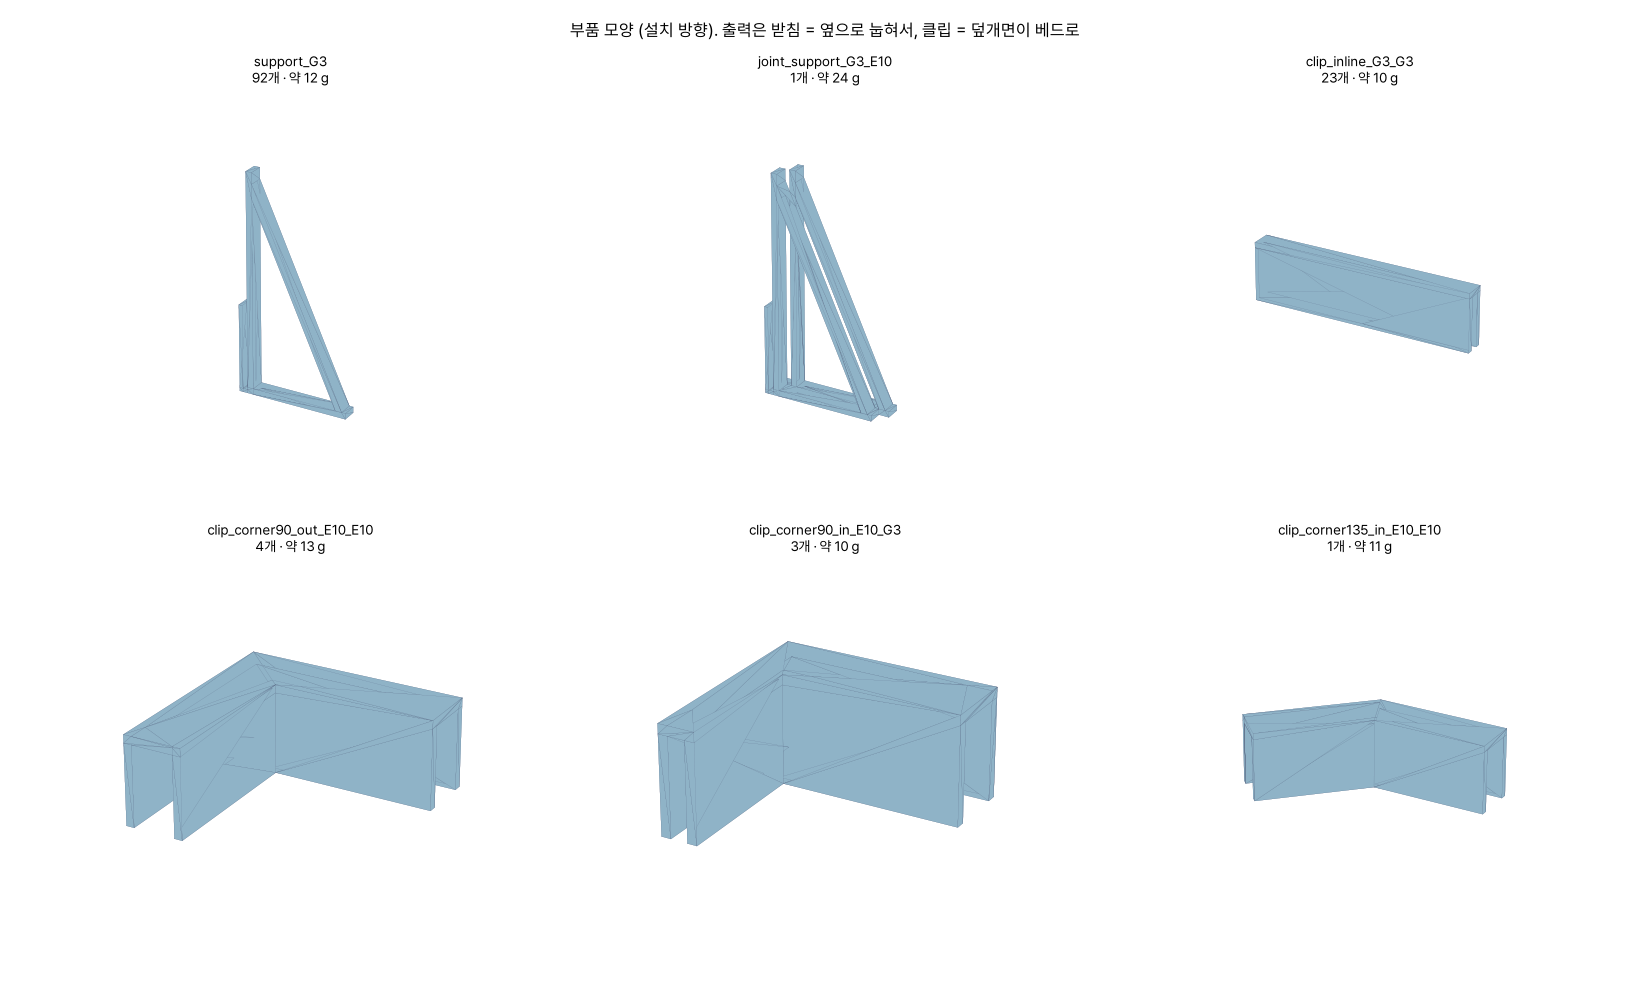
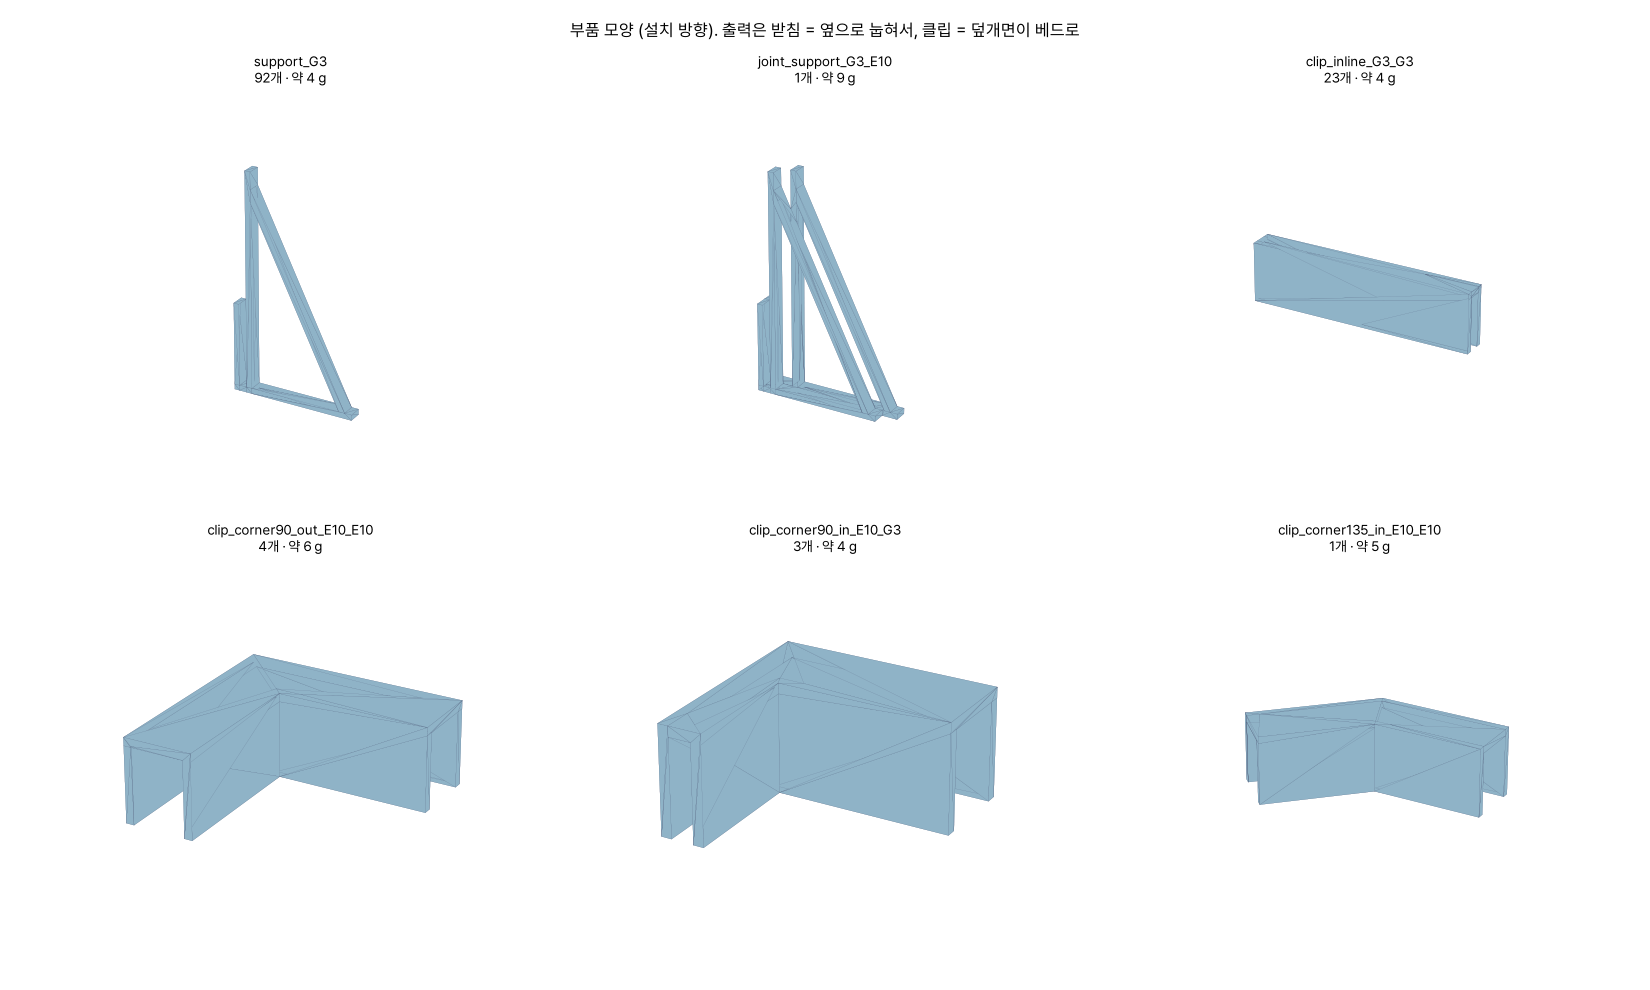
벽 받침 경량화 — 출력 약 95시간 → 41시간, PLA 4.0 → 1.3 kg
- 받침: 높이 150 → 100, 바닥 70 → 50, 두께 10 → 6, 부재 4 → 2.5 mm(선 6줄, 채움 없음).
  Bambu Studio 슬라이스 기준 1개 21분 → 8분, 12.0 → 4.2 g. 빗대 좌굴 약 26 N.
- ㄷ자 클립: 살 2 → 1.6, 다리 20 → 15, 팔 40 → 30 mm. 15분 → 9분.
- 배치·수량은 그대로(받침 164 · 이음 받침 36 · 클립 61), 검사 전부 통과.
- README에 부품별 슬라이스 시간표와 더 줄이는 선택지(간격 800 mm, 코너 클립 → 청테이프) 기록.
- 단면도가 받침 가운데 빈 곳을 꽉 찬 것처럼 그리던 것 수정.

diff --git a/parts/wall_support/make_wall_parts.py b/parts/wall_support/make_wall_parts.py
@@ -23,20 +23,20 @@ STL = os.path.join(HERE, "stl")
 # ---- 치수 (mm). 첫 출력 후 실측해서 여기만 고치면 된다 ------------------------------------------
 T = {"G": 3.0, "E": 10.0}       # 판 두께: 회색 포맥스 3T, EVA 10T
 CLR = {"G": 0.5, "E": 0.5}      # 홈 여유 (EVA는 눌리므로 빡빡해도 됨)
-H = 150.0        # 받침 높이 (벽 400 mm의 아래 37 %)
-D = 70.0         # 받침 바닥 길이 (벽 뒷면부터)
-WID = 10.0       # 받침 두께(벽 따라). 이음 받침은 판마다 WID씩 = 20
-PLATE = 4.0      # 뒤판·바닥판·빗대 두께
-LIP_T, LIP_H = 2.4, 60.0   # 도로 쪽 턱 (잔디 가장자리가 여기에 닿음)
+H = 100.0        # 받침 높이 (11-07: 150 → 100, 출력 21분 → 8분)
+D = 50.0         # 받침 바닥 길이 (벽 뒷면부터)
+WID = 6.0        # 받침 두께(벽 따라). 이음 받침은 판마다 WID씩 = 12
+PLATE = 2.5      # 뒤판·바닥판·빗대 두께 = 0.42 mm 선 6줄 (채움 없이 벽 선만으로 꽉 참)
+LIP_T, LIP_H = 2.4, 40.0   # 도로 쪽 턱 (잔디 가장자리가 여기에 닿음)
 BR = 2.4         # 벽이 올라앉는 바닥 다리 두께
-CL_ARM = 40.0    # 클립 팔 길이 (이음·코너에서 각 판 쪽으로)
-CL_LEG = 20.0    # 클립 다리 깊이 (판 윗변에서 아래로)
-CL_WALL = 2.0    # 클립 살 두께
+CL_ARM = 30.0    # 클립 팔 길이 (이음·코너에서 각 판 쪽으로)
+CL_LEG = 15.0    # 클립 다리 깊이 (판 윗변에서 아래로)
+CL_WALL = 1.6    # 클립 살 두께 (선 4줄)
 SPACING = 600.0  # 받침 최대 간격 (PDF 18쪽 '우선 600 mm 이하')
 CORNER_OFF = 120.0   # 코너에서 첫 받침까지
 MIN_PANEL = 300.0    # 이보다 짧은 판은 양 끝 이음 받침만
 PLA_DENSITY = 1.24
-FILL = {"support": 0.6, "joint": 0.6, "clip": 1.0}   # 슬라이서 기본(벽 2·채움 15 %)에서 유효 충전율 추정: 4 mm 부재 ≈ 0.6, 2 mm 살 = 거의 꽉
+FILL = {"support": 0.8, "joint": 0.8, "clip": 0.95}  # Bambu Studio 0.20 Standard 슬라이스 실측 필라멘트량 ÷ STL 부피 (11-07)
 
 
 # ---- 벽·도로 ---------------------------------------------------------------------------------------
@@ -346,7 +346,7 @@ fig.tight_layout(); fig.savefig(os.path.join(HERE, "wall_supports.png"), dpi=130
 fig, axs = plt.subplots(1, 3, figsize=(13, 5.2))
 for ax, mat in zip(axs[:2], ("G", "E")):
     pr = support_profile(mat)
-    ax.fill(*pr.exterior.xy, color="#8aa", ec="k")
+    fill(ax, pr, color="#8aa", ec="k", lw=0.8)
     s = T[mat]
     ax.add_patch(plt.Rectangle((0, BR), s, 400 - BR, color="#bbb" if mat == "G" else "#f0b070", alpha=0.6))
     ax.add_patch(plt.Rectangle((-200, 0), 200 - LIP_T, 6, color="#7cc576"))
@@ -363,7 +363,7 @@ o, v = clip_kinds[next(k for k in clip_kinds if clip_kinds[k]["name"].startswith
 ax.fill(*o.exterior.xy, color="#8aa", ec="k")
 for g in getattr(v, "geoms", [v]):
     ax.fill(*g.exterior.xy, color="white", ec="#555", ls="--")
-ax.set_aspect("equal"); ax.set_title(f"ㄷ자 클립 (위에서 본 모양, 일자 회색-회색)\n점선 = 판이 들어가는 홈 · 덮개 {CL_WALL:.0f} mm + 다리 {CL_LEG:.0f} mm", fontsize=9)
+ax.set_aspect("equal"); ax.set_title(f"ㄷ자 클립 (위에서 본 모양, 일자 회색-회색)\n점선 = 판이 들어가는 홈 · 덮개 {CL_WALL:g} mm + 다리 {CL_LEG:g} mm", fontsize=9)
 fig.tight_layout(); fig.savefig(os.path.join(HERE, "wall_parts_section.png"), dpi=130); plt.close(fig)
 
 from mpl_toolkits.mplot3d.art3d import Poly3DCollection

diff --git a/parts/wall_support/README.md b/parts/wall_support/README.md
@@ -21,10 +21,10 @@
 
 ![단면](wall_parts_section.png)
 
-- **받침**: 높이 150 · 바닥 70 · 두께 10 mm이고, 홈은 회색 3.5 / EVA 10.5 mm입니다.
-  - 도로 쪽에는 2.4 × 60 mm 턱만 있습니다. 잔디 가장자리가 이 턱에 닿습니다.
+- **받침**: 높이 100 · 바닥 50 · 두께 6 mm, 부재 2.5 mm이고, 홈은 회색 3.5 / EVA 10.5 mm입니다.
+  - 도로 쪽에는 2.4 × 40 mm 턱만 있습니다. 잔디 가장자리가 이 턱에 닿습니다.
   - **흰 도로 위에는 아무것도 올라가지 않습니다**(PDF 18쪽).
-- **클립**: 살 2 mm, 다리 20 mm, 팔 40 mm입니다. 코너 클립은 모양이 여럿입니다.
+- **클립**: 살 1.6 mm, 다리 15 mm, 팔 30 mm입니다. 코너 클립은 모양이 여럿입니다.
   - `out`: 받침 쪽이 각의 바깥(외곽 벽 모서리)
   - `in`: 받침 쪽이 각의 안쪽(섬 모서리)
   - `_mirror`: 좌우가 반대인 모양입니다. 섞이지 않게 따로 담으세요.
@@ -51,14 +51,37 @@
 |---|---|
 | 설정 | 0.4 노즐 · 0.20 mm Standard · Bambu PLA Basic(회색) · **서포트 없음** |
 | 방향 | 받침·이음 받침은 **옆으로 눕혀서**(단면이 베드에), 클립은 **덮개면이 베드에**. STL이 이미 그 방향입니다 |
-| 수량·무게 | [`parts_count.csv`](parts_count.csv) — 예비 10 % 포함 **약 4.0 kg** (사 둔 PLA 4 kg와 거의 같음) |
-| 출력 시간 | Bambu Studio 슬라이스 기준 받침 **21분**, 이음 받침 38분, 클립 14분 → 합계 **약 95시간 (P1S 1대)** |
+| 수량 | [`parts_count.csv`](parts_count.csv) |
 
-> ⚠ **출력 시간이 가장 큰 일정 변수입니다.** 대회까지 남은 날로는 P1S 1대로는 빠듯합니다.
-> 프린터를 여러 대 나눠 쓰는 게 가장 확실합니다. 받침 간격을 800 mm로 늘려도 약 81시간이라 효과가 크지 않습니다.
-> 코너·이음 받침이 고정으로 들어가기 때문입니다.
->
-> 받침 1개 무게는 슬라이서 값 12.0 g입니다. 첫 출력물을 달아 보고 `parts_count.csv`와 비교하면 PLA가 남는지 바로 압니다.
+Bambu Studio 슬라이스 값입니다(0.20 Standard, 1개씩).
+
+| 부품 | 1개 | 수량 | 합계 |
+|---|---|---|---|
+| 받침 | 8분 · 4.2 g | 164 | 22.8시간 · 0.69 kg |
+| 이음 받침 | 15분 · 8.0 g | 36 | 8.8시간 · 0.29 kg |
+| ㄷ자 클립 | 9~11분 · 4.4~6.1 g | 61 | 9.9시간 · 0.29 kg |
+| **합계** | | 261 | **약 41시간 · 1.3 kg** (예비 10 % 넣으면 약 46시간) |
+
+### 11-07 개선: 95시간 → 41시간
+
+처음 설계(높이 150 · 바닥 70 · 두께 10 · 부재 4 mm)는 받침 1개가 21분, 전체가 약 95시간·4.0 kg이었습니다.
+출력 시간은 거의 **필라멘트 양에 비례**합니다. 그래서 형태는 그대로 두고 살을 줄였습니다.
+
+| 바꾼 것 | 이유 |
+|---|---|
+| 높이 150 → **100** | 벽 윗부분은 ㄷ자 클립이 옆 판과 묶어 줍니다. 첫 벽 시험에서 위쪽이 흔들리면 `H`를 올리세요(10 mm당 약 0.5분) |
+| 부재 4 → **2.5 mm** | 0.42 mm 선 6줄로 꽉 차서 채움(infill)이 없습니다 |
+| 두께 10 → **6 mm** | 빗대 좌굴 하중은 약 26 N입니다(오일러, PLA E = 3.5 GPa). 600 mm마다 하나씩이라 차가 한 곳을 밀어도 여러 개가 나눠 받습니다 |
+| 클립 살 2 → 1.6 · 다리 20 → 15 · 팔 40 → 30 mm | 클립 15분 → 9분 |
+
+시험해 본 다른 방법도 남겨 둡니다.
+- **클립을 옆으로 눕혀 출력**: 차이가 없었습니다(8.4분).
+- **받침 간격 800 mm**: 받침이 39개 줄어 약 5시간 빠집니다. 첫 벽 시험에서 600 mm가 넉넉하면 `SPACING`을 바꾸세요.
+- **클립 대신 청테이프**: 클립 61개를 빼면 약 10시간이 빠집니다. 예산안의 청테이프 50롤이 벽 이음용입니다.
+  코너는 두 판이 서로 받쳐 주므로, 코너 클립(25개, 약 4시간)만 테이프로 바꾸는 것도 방법입니다.
+
+> 한 판에 여러 개를 올려도 1개당 시간은 거의 같습니다(받침 16개 = 4판 × 32.7분).
+> 판을 갈아 끼우는 횟수를 줄이려면 Bambu Studio에서 손으로 촘촘히 배치하세요. 받침이 56 × 100 mm라 한 판에 8개 이상 들어갑니다.
 
 ## 다시 만들기
 
